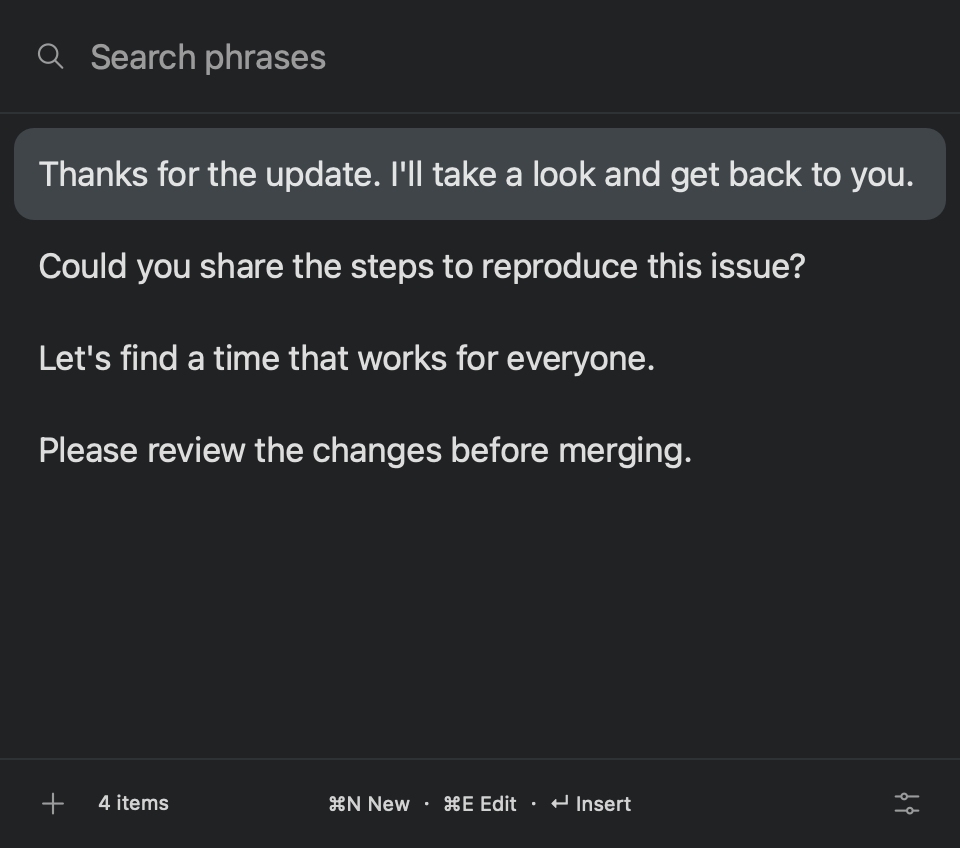
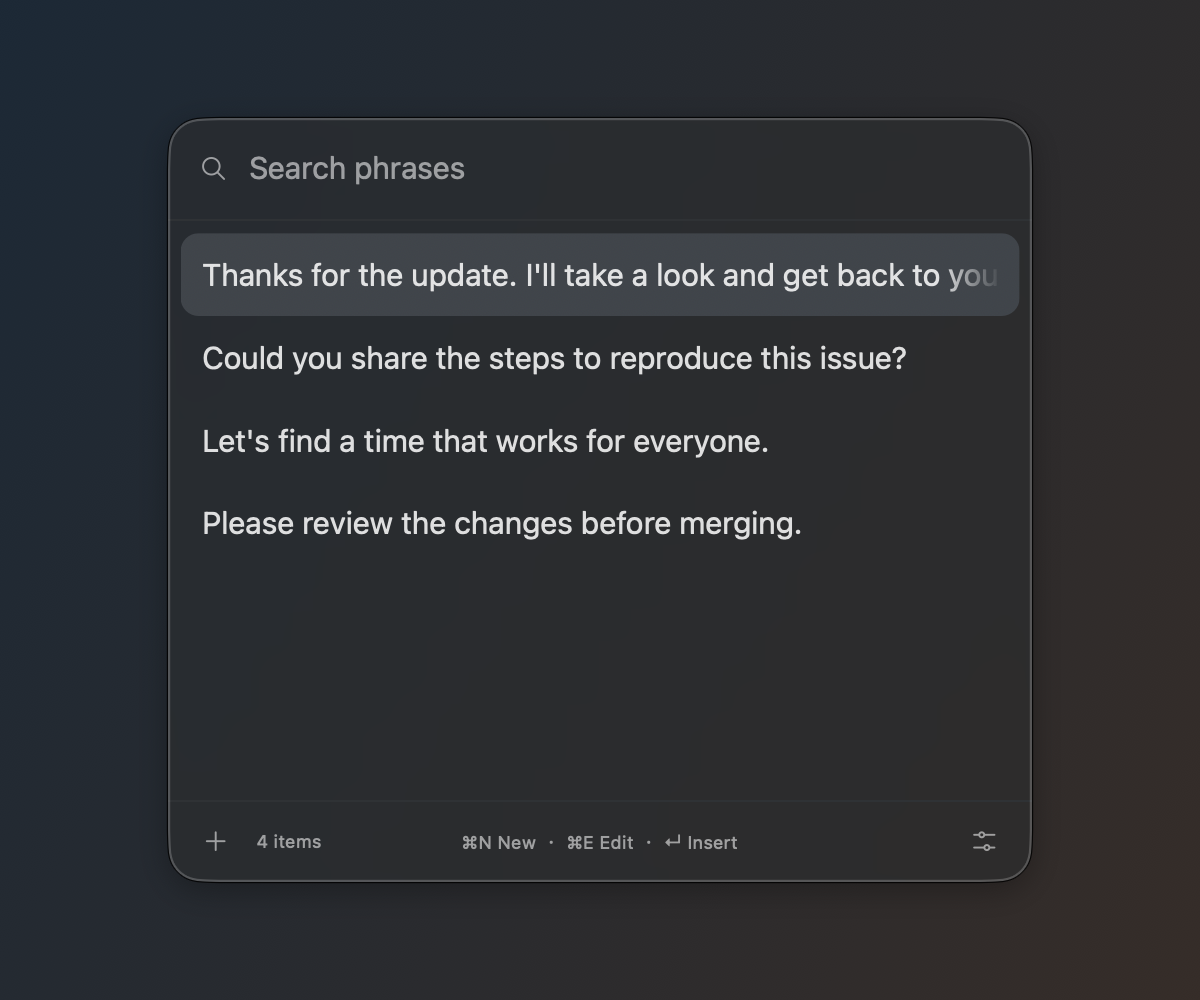
docs: capture complete native glass windows for README

diff --git a/scripts/render-readme.swift b/scripts/render-readme.swift
@@ -6,12 +6,26 @@ import AppKit
   let root = URL(fileURLWithPath:FileManager.default.currentDirectoryPath).appendingPathComponent("assets/screenshots")
   try FileManager.default.createDirectory(at:root,withIntermediateDirectories:true)
   for language in ["en", "zh-Hans"] { for dark in [false,true] { for page in ["list"] {
-   let scale = 1.0
+   let scale = 0.9
    AppText.language = { language }
-   let ui = NativeInterface(mode:"list"), window = NSWindow(contentRect:NSRect(x:0,y:0,width:480*scale,height:424*scale),styleMask:.borderless,backing:.buffered,defer:false)
-   window.contentView = ui.view
+   let ui = NativeInterface(mode:"list"), window = NSPanel(contentRect:NSRect(x:0,y:0,width:480*scale,height:424*scale),styleMask:[.borderless, .nonactivatingPanel],backing:.buffered,defer:false)
+   let canvas = NSWindow(contentRect: NSRect(x: 160, y: 160, width: 600, height: 500), styleMask: .borderless, backing: .buffered, defer: false)
+   canvas.isReleasedWhenClosed = false
+   canvas.level = .floating
+   let backdrop = PreviewBackdrop(frame: NSRect(x: 0, y: 0, width: 600, height: 500))
+   backdrop.dark = dark
+   canvas.contentView = backdrop
+   window.isReleasedWhenClosed = false
+   window.isOpaque = false
+   window.backgroundColor = .clear
+   window.hasShadow = true
+   window.level = .popUpMenu
+   let surface = GlassSurface(frame: window.contentView!.bounds)
+   surface.install(ui.view)
+   surface.update(scale: scale, dark: dark, style: "clear")
+   window.contentView = surface
    ui.action = { name,payload in if name == "layout" { window.setContentSize(NSSize(width:480*scale,height:(payload["collapsed"] as? Bool == true ? 57 : 424)*scale)) } }
-   ui.state = ["scale":scale,"dark":dark,"language":language,"resolvedLanguage":language,"size":"large","shortcut":"⌃⌥Space","navigationSchemes":["arrows"],"vimEditing":false,"trusted":true,"prompts":[
+   ui.state = ["scale":scale,"glass":surface.glassEnabled,"glassStyle":"clear","dark":dark,"language":language,"resolvedLanguage":language,"size":"medium","shortcut":"⌃⌥Space","navigationSchemes":["arrows"],"vimEditing":false,"trusted":true,"prompts":[
     ["id":"fixture","body":language == "en" ? "Thanks for the update. I'll take a look and get back to you." : "感谢你的反馈，我会查看后尽快回复。","pinned":true],
     ["id":"fixture2","body":language == "en" ? "Could you share the steps to reproduce this issue?" : "可以分享一下这个问题的复现步骤吗？","pinned":false],
     ["id":"fixture3","body":language == "en" ? "Let's find a time that works for everyone." : "我们找一个大家都方便的时间吧。","pinned":false],
@@ -20,12 +34,34 @@ import AppKit
    window.appearance = NSAppearance(named: dark ? .darkAqua : .aqua)
    ui.open("list")
    if page != "collapsed" { _ = ui.handleKey(key(125)) }
-   ui.view.layoutSubtreeIfNeeded(); ui.view.displayIfNeeded()
-   if let image = ui.view.bitmapImageRepForCachingDisplay(in:ui.view.bounds) {
-    ui.view.cacheDisplay(in:ui.view.bounds,to:image)
-    try image.representation(using:.png,properties:[:])!.write(to:root.appendingPathComponent("\(language)-\(dark ? "dark" : "light").png"))
-   }
+   window.setFrameOrigin(NSPoint(x: canvas.frame.midX - window.frame.width / 2, y: canvas.frame.midY - window.frame.height / 2))
+   canvas.orderFrontRegardless()
+   window.orderFrontRegardless()
+   ui.view.layoutSubtreeIfNeeded()
+   // Glass needs the window server's composited backdrop; view caching omits it.
+   RunLoop.current.run(until: Date().addingTimeInterval(0.7))
+   let top = NSScreen.screens[0].frame.maxY
+   let rect = canvas.frame
+   let capture = Process()
+   capture.executableURL = URL(fileURLWithPath: "/usr/sbin/screencapture")
+   capture.arguments = ["-x", "-R\(Int(rect.minX)),\(Int(top-rect.maxY)),\(Int(rect.width)),\(Int(rect.height))", root.appendingPathComponent("\(language)-\(dark ? "dark" : "light").png").path]
+   try capture.run()
+   capture.waitUntilExit()
+   guard capture.terminationStatus == 0 else { throw NSError(domain: "Screenshot", code: Int(capture.terminationStatus)) }
+   window.orderOut(nil)
+   canvas.orderOut(nil)
   } } }
   print("Rendered bilingual native screenshots in assets/screenshots")
+ }
+}
+
+/// A controlled desktop backdrop keeps screenshots independent of private windows.
+final class PreviewBackdrop: NSView {
+ var dark = false
+ override func draw(_ dirtyRect: NSRect) {
+  let colors: [NSColor] = dark
+   ? [NSColor(srgbRed: 0.12, green: 0.18, blue: 0.24, alpha: 1), NSColor(srgbRed: 0.24, green: 0.20, blue: 0.18, alpha: 1)]
+   : [NSColor(srgbRed: 0.86, green: 0.92, blue: 0.95, alpha: 1), NSColor(srgbRed: 0.98, green: 0.92, blue: 0.81, alpha: 1)]
+  NSGradient(colors: colors)!.draw(in: bounds, angle: -30)
  }
 }

diff --git a/README.md b/README.md
@@ -10,7 +10,7 @@
   <img src="assets/screenshots/en-dark.png" width="48%" alt="Popeste phrase picker in dark appearance">
 </p>
 
-*Native UI previews with sample phrases and an opaque background. On macOS 26, glass appearance varies with the desktop background and system settings.*
+*Native macOS 26 floating windows with sample phrases, using the app’s glass container and controls. Glass appearance varies with the background and system settings.*
 
 Popeste is a native macOS menu bar utility for the text you type over and over: replies, snippets, notes, and reusable phrases. Bring up the search bar, find an item, and press Return to insert it into your current app.
 

diff --git a/README.zh-CN.md b/README.zh-CN.md
@@ -10,7 +10,7 @@
   <img src="assets/screenshots/zh-Hans-dark.png" width="48%" alt="Popeste 深色短语列表">
 </p>
 
-*以上为原生界面的示例数据预览，展示实色外观；macOS 26 的玻璃效果随背景和系统设置变化。*
+*以上为 macOS 26 原生浮窗截图，使用应用的玻璃容器、控件和示例短语；玻璃效果随背景和系统设置变化。*
 
 macOS 菜单栏短语工具，支持 macOS 14+。每条短语保存完整正文，列表用正文开头辨认内容，长内容单行裁切。无需账号、网络或第三方依赖。
 
